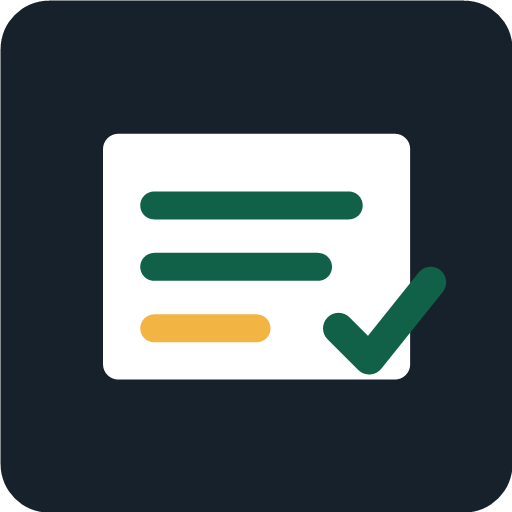
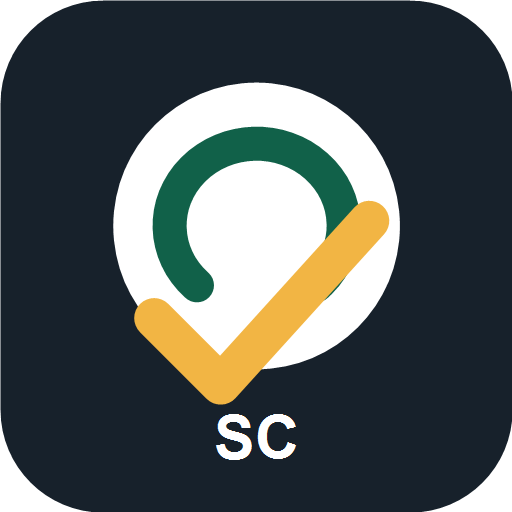
Publicar marca Servico Certo

diff --git a/styles.css b/styles.css
@@ -81,6 +81,18 @@ button:disabled {
   font-size: 1.6rem;
 }
 
+.owner-label {
+  margin: -8px 0 4px;
+  color: var(--muted);
+  font-size: 0.78rem;
+  font-weight: 800;
+}
+
+.top-owner {
+  margin: 6px 0 0;
+  color: rgba(232, 245, 239, 0.76);
+}
+
 .brand-row {
   display: flex;
   align-items: center;
@@ -114,23 +126,30 @@ button:disabled {
 }
 
 .login-logo {
-  width: min(230px, 78vw);
-  height: auto;
+  width: 118px;
+  height: 118px;
+  justify-self: center;
 }
 
 .top-logo {
-  width: 116px;
-  height: 60px;
+  width: 64px;
+  height: 64px;
+}
+
+.service-logo {
+  border-radius: 18px;
+  background: #17212b;
+  box-shadow: 0 10px 22px rgba(18, 33, 43, 0.18);
 }
 
 .logo-panel {
   display: grid;
   place-items: center;
-  width: 132px;
+  width: 88px;
   min-height: 74px;
   border: 1px solid rgba(255, 255, 255, 0.28);
   border-radius: 8px;
-  background: #ffffff;
+  background: rgba(255, 255, 255, 0.08);
   box-shadow: 0 14px 26px rgba(0, 0, 0, 0.18);
 }
 

diff --git a/index.html b/index.html
@@ -3,24 +3,25 @@
 <head>
   <meta charset="utf-8">
   <meta name="viewport" content="width=device-width, initial-scale=1">
-  <title>App de Tarefas</title>
+  <title>Servico Certo</title>
   <meta name="theme-color" content="#17212b">
-  <meta name="application-name" content="App de Tarefas">
+  <meta name="application-name" content="Servico Certo">
   <meta name="mobile-web-app-capable" content="yes">
   <meta name="apple-mobile-web-app-capable" content="yes">
-  <meta name="apple-mobile-web-app-title" content="App Tarefas">
+  <meta name="apple-mobile-web-app-title" content="Servico Certo">
   <meta name="apple-mobile-web-app-status-bar-style" content="black-translucent">
   <link rel="apple-touch-icon" href="app-icon-192.png">
   <link rel="icon" type="image/png" sizes="192x192" href="app-icon-192.png">
-  <link rel="manifest" href="manifest.json?v=38">
-  <link rel="stylesheet" href="styles.css?v=38">
+  <link rel="manifest" href="manifest.json?v=39">
+  <link rel="stylesheet" href="styles.css?v=39">
 </head>
 <body>
   <section class="login-screen" id="loginScreen" aria-labelledby="loginTitle">
     <form class="login-card" id="loginForm">
-      <div class="brand-mark large" aria-hidden="true">TO</div>
-      <p class="eyebrow">App de tarefas</p>
+      <img class="logo-image login-logo service-logo" src="logo-servico-certo.svg" alt="Servico Certo">
+      <p class="eyebrow">Servico Certo</p>
       <h1 id="loginTitle">Entrar nas tarefas</h1>
+      <p class="owner-label">Propriedade de Adriano Trabuco</p>
       <label>
         <span>Usuario</span>
         <select id="loginUser" required>
@@ -43,11 +44,12 @@
   <header class="topbar">
     <div class="brand-row">
       <div class="logo-panel">
-        <div class="brand-mark" aria-hidden="true">TO</div>
+        <img class="logo-image top-logo service-logo" src="logo-servico-certo.svg" alt="Servico Certo">
       </div>
       <div class="title-block">
-        <p class="eyebrow">App de tarefas</p>
+        <p class="eyebrow">Servico Certo</p>
         <h1>Tarefas</h1>
+        <p class="owner-label top-owner">Propriedade de Adriano Trabuco</p>
         <p class="session-label" id="sessionLabel"></p>
       </div>
     </div>
@@ -372,11 +374,11 @@
   </template>
 
   <script src="https://cdn.jsdelivr.net/npm/@supabase/supabase-js@2"></script>
-  <script src="supabase-config.js?v=38"></script>
-  <script src="app.js?v=38"></script>
+  <script src="supabase-config.js?v=39"></script>
+  <script src="app.js?v=39"></script>
   <script>
     if ('serviceWorker' in navigator) {
-      navigator.serviceWorker.register('sw.js?v=38')
+      navigator.serviceWorker.register('sw.js?v=39')
         .catch(() => {});
     }
 

diff --git a/app.js b/app.js
@@ -3,7 +3,7 @@ const oldStorageKey = 'gtech-tarefas-obras-v1';
 const inventoryStorageKey = 'gtech-inventario-v1';
 const dbName = 'gtech-tarefas-obras-arquivos';
 const dbStore = 'midias';
-const appVersion = '38-app-tarefas';
+const appVersion = '39-servico-certo';
 const sessionKey = 'gtech-sessao-v1';
 const cloudTasksTable = 'tarefas_obras';
 const cloudUsersTable = 'usuarios_app';
@@ -697,7 +697,7 @@ function notifyNewTasks(newTasks) {
     : `${newTasks.length} novas tarefas para executar`;
 
   if ('Notification' in window && Notification.permission === 'granted') {
-    new Notification('App de Tarefas', { body: message });
+    new Notification('Servico Certo', { body: message });
   } else {
     alert(message);
   }
@@ -2094,7 +2094,7 @@ async function shareEvidence(id) {
   const message = [
     `ENVIAR PARA: ${responsibleName} - ${responsiblePhoneLabel}`,
     ``,
-    `App de Tarefas - evidencias da tarefa`,
+    `Servico Certo - evidencias da tarefa`,
     `Tarefa: ${task.title}`,
     `Funcionario: ${task.employee}`,
     `Obra: ${task.site}`,
@@ -2672,7 +2672,7 @@ function alertInventoryMove(id) {
   if (note === null) return;
 
   const message = [
-    'App de Tarefas - aviso de mudanca de ferramenta',
+    'Servico Certo - aviso de mudanca de ferramenta',
     `Item: ${item.name}`,
     `Quantidade: ${formatNumber(item.quantity)} ${item.unit || 'un'}`,
     `Responsavel atual: ${item.employee || 'Estoque'}`,